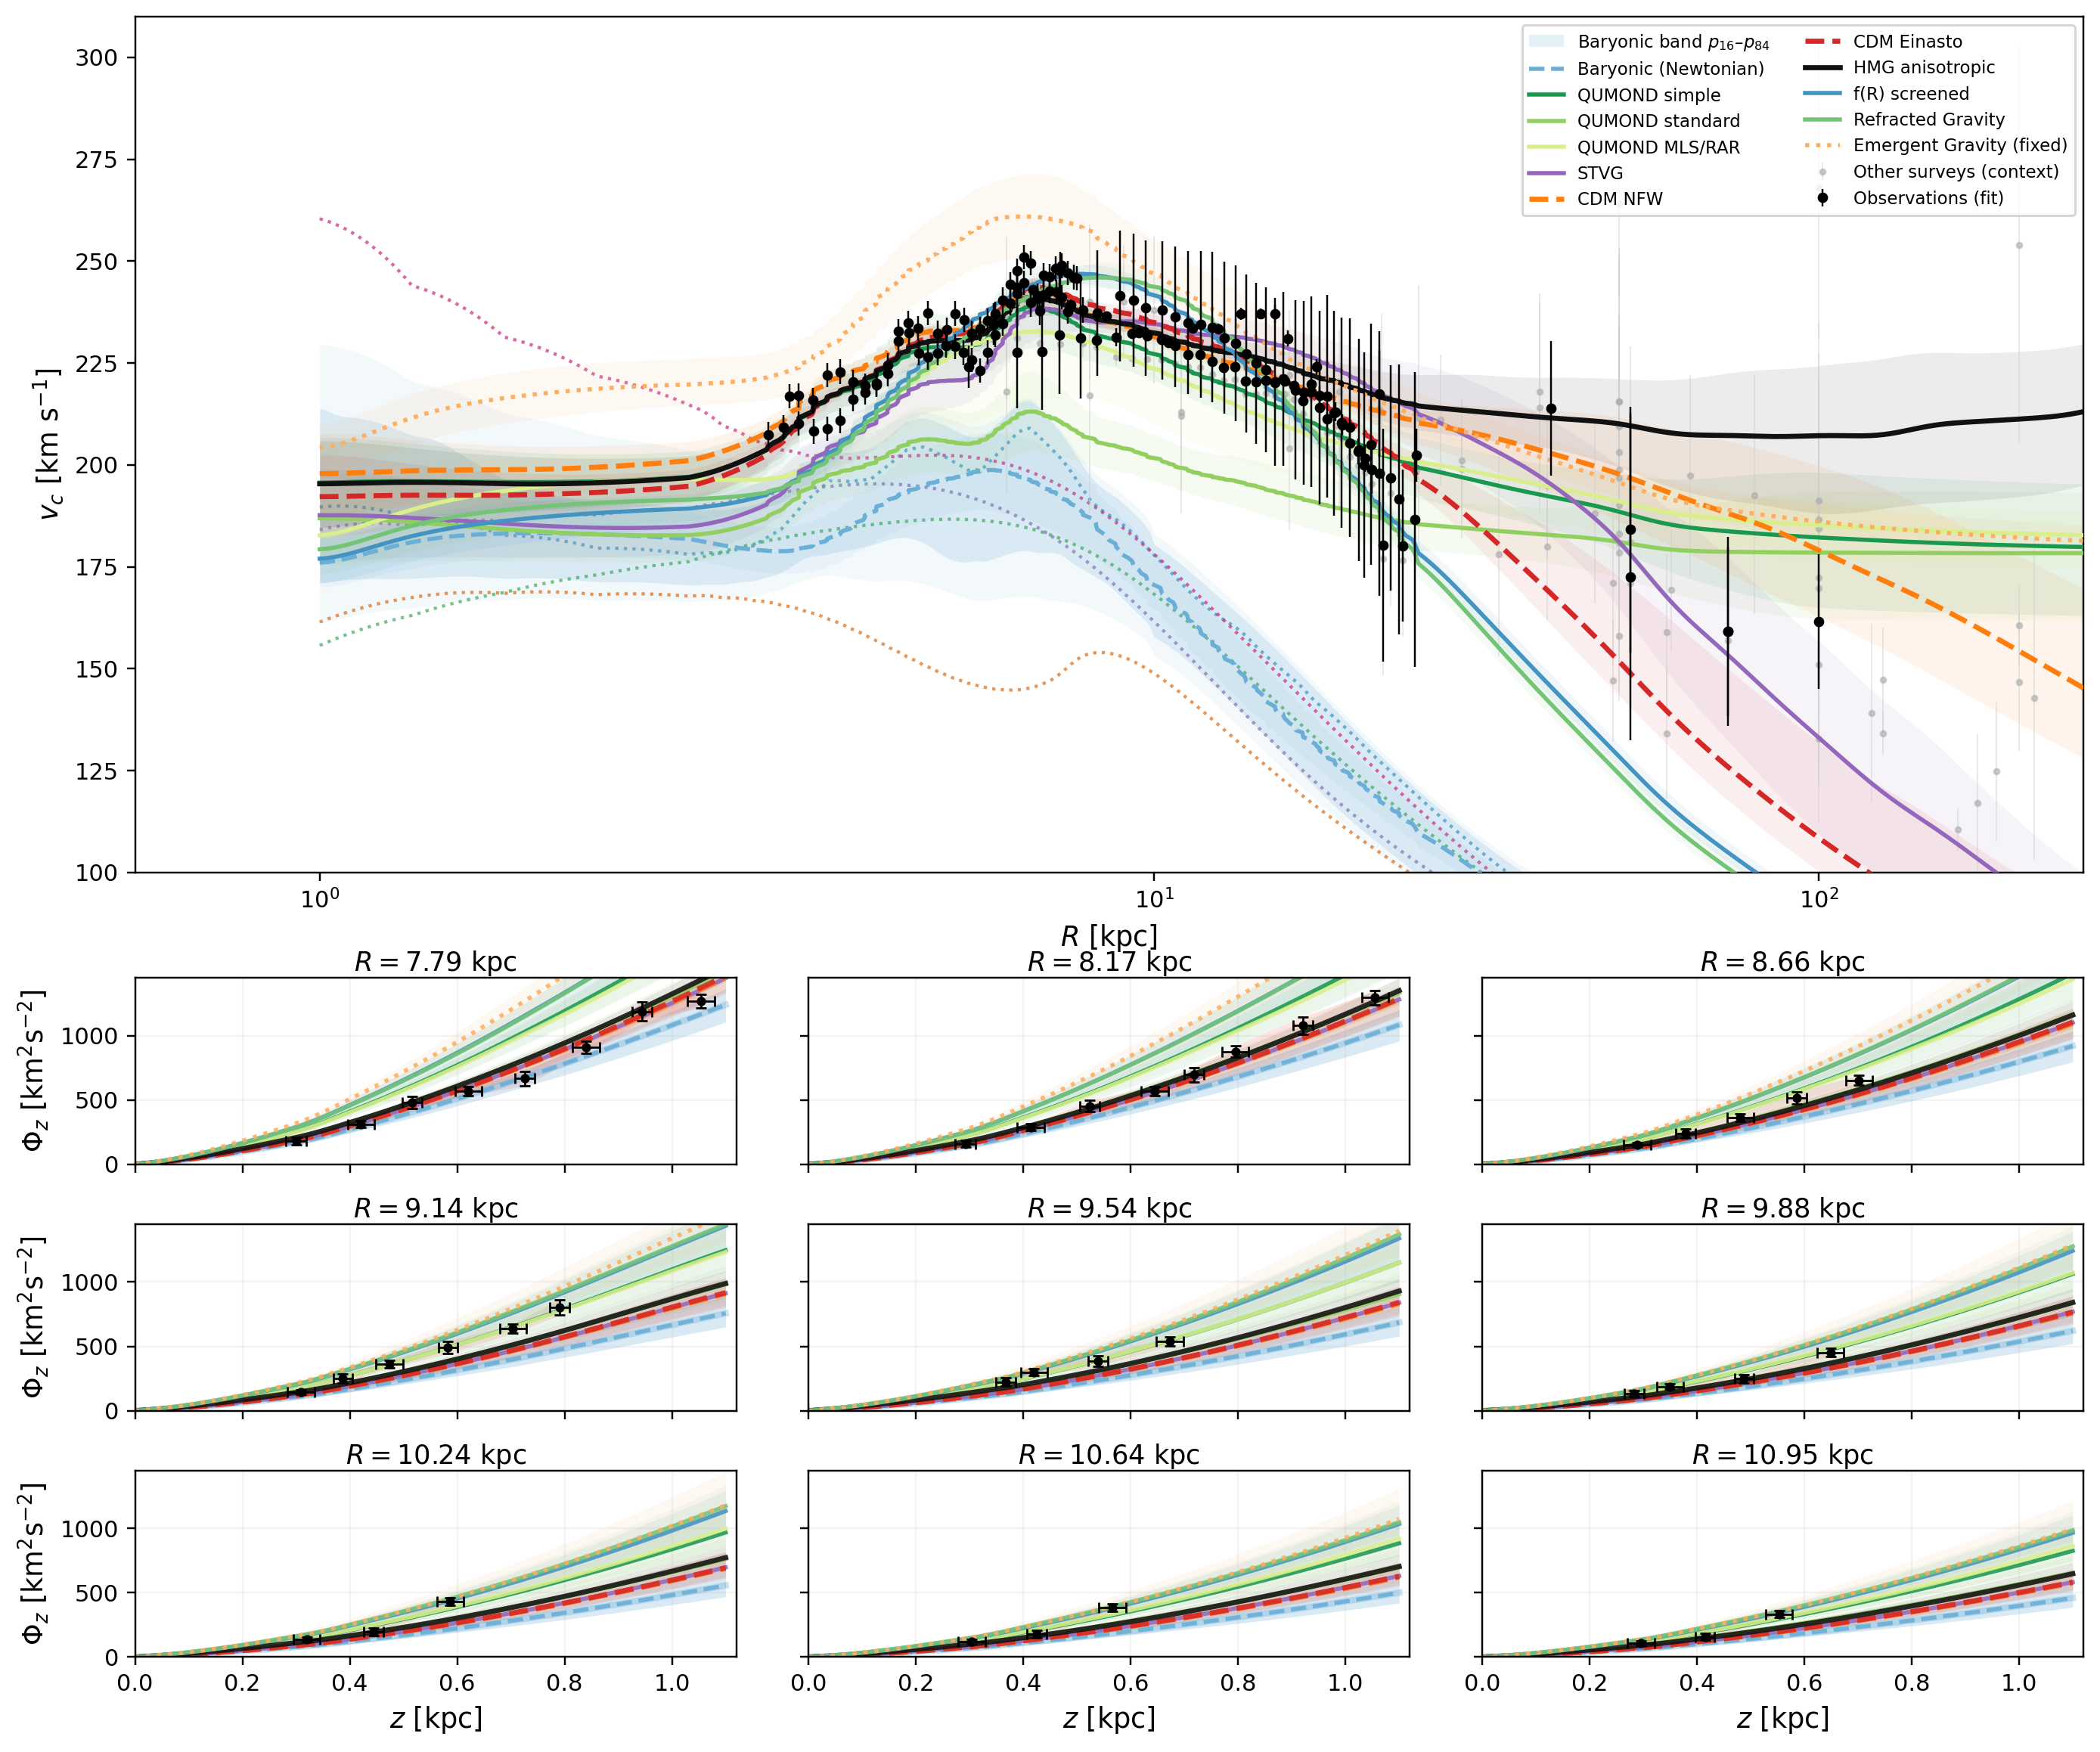
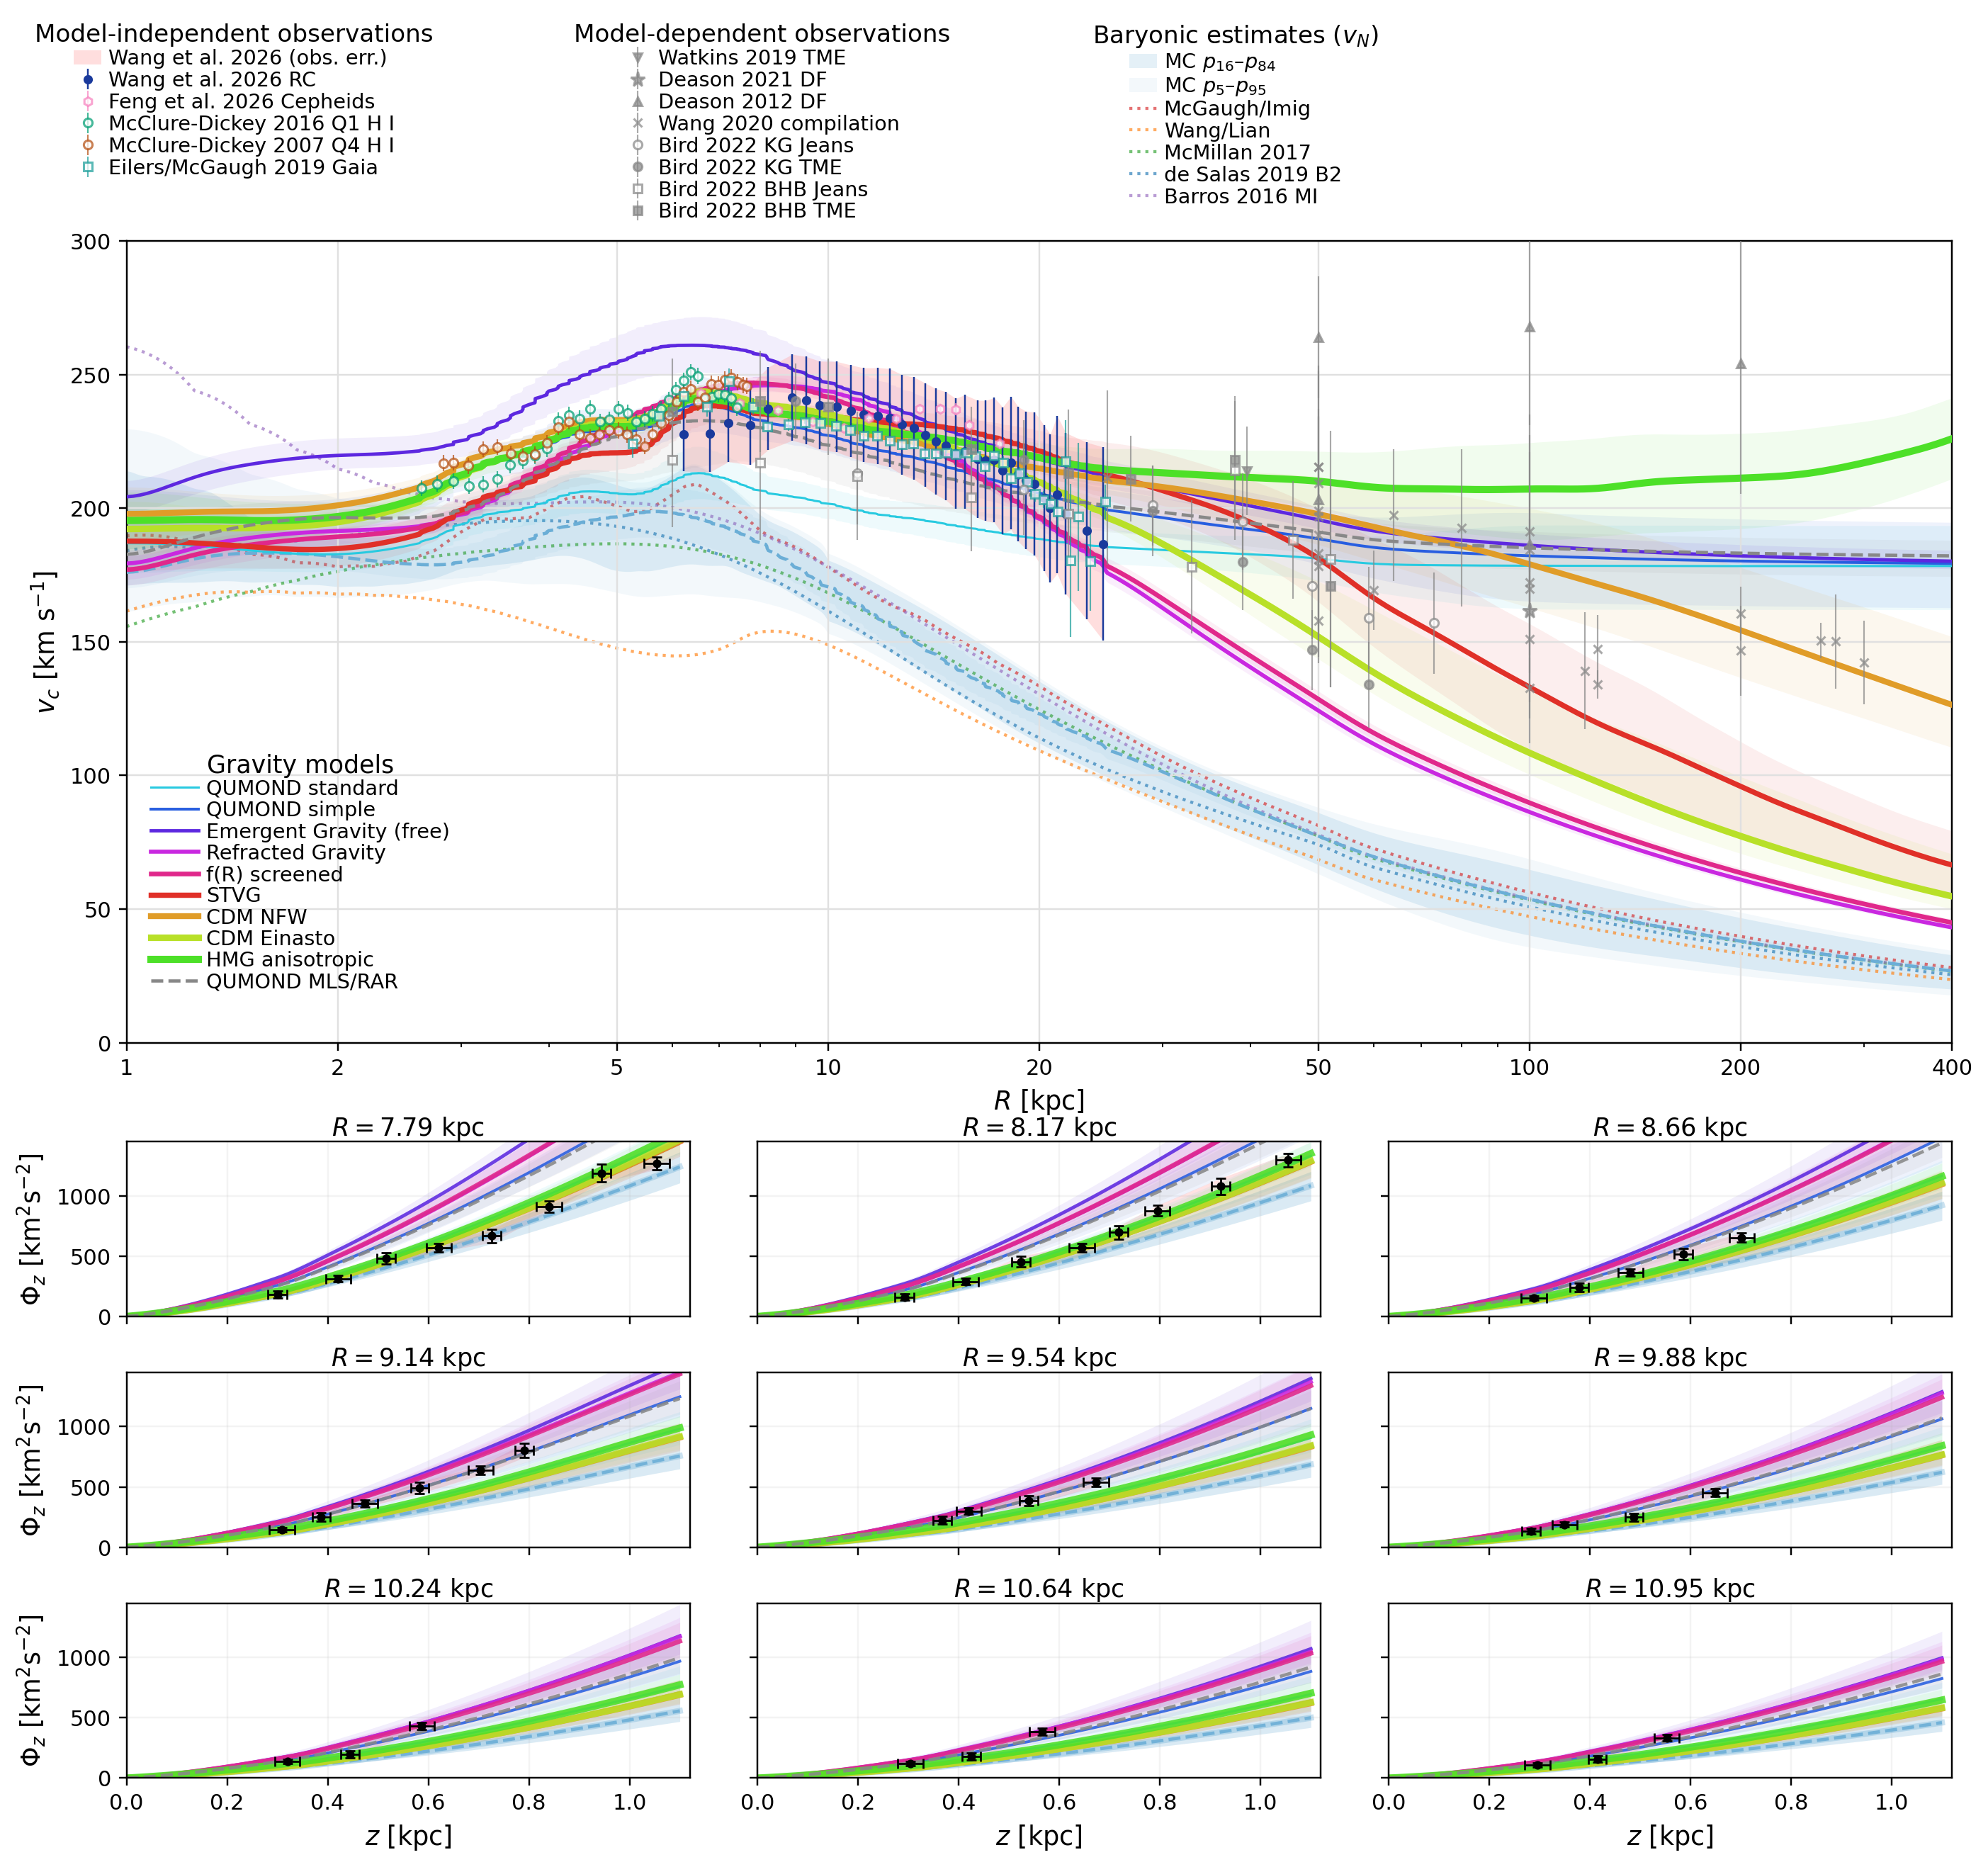
release: harmonize fig2_reproduced styling with fig2_consolidated
- Model colors/widths now match FIG2B rainbow HSV palette (9 canonical models)
- Per-survey observational markers matching canonical group_style
- 4-column legend above panel (indep obs | dep obs | baryonic | gravity models)
- axis: log10 x-scale, xlim 1–400 kpc, ylim 0–300 km/s
- Family dotted lines colors updated to canonical (red/orange/green/blue/purple)

diff --git a/vgrav/figures.py b/vgrav/figures.py
@@ -23,33 +23,42 @@ from typing import Optional
 import matplotlib.pyplot as plt
 import numpy as np
 from matplotlib.colors import LogNorm
+from matplotlib.lines import Line2D
+from matplotlib.patches import Patch
 from scipy.interpolate import PchipInterpolator
 from scipy.ndimage import gaussian_filter1d
 
 # ── Model display config ───────────────────────────────────────────────────────
 # key → (display_name, color, linestyle, linewidth)
 _MODEL_STYLES: dict[str, tuple] = {
-    "baryonic":           ("Baryonic (Newtonian)",   "#6baed6", "--", 1.8),
-    "qumond_simple":      ("QUMOND simple",           "#1a9850", "-",  1.8),
-    "qumond_standard":    ("QUMOND standard",         "#91cf60", "-",  1.8),
-    "qumond_mls":         ("QUMOND MLS/RAR",          "#d9ef8b", "-",  1.8),
-    "stvg":               ("STVG",                    "#9467bd", "-",  1.8),
-    "cdm_nfw":            ("CDM NFW",                 "#ff7f0e", "--", 2.2),
-    "cdm_einasto":        ("CDM Einasto",             "#d62728", "--", 2.2),
-    "hmg_k1":             ("HMG anisotropic",         "#111111", "-",  2.2),
-    "fr_screened":        ("f(R) screened",           "#4393c3", "-",  1.8),
-    "refracted_gravity":  ("Refracted Gravity",       "#74c476", "-",  1.8),
-    "emergent_gravity":   ("Emergent Gravity (fixed)","#fdae61", ":",  1.8),
+    "baryonic":           ("Baryonic (Newtonian)",    "#6baed6", "--", 1.5),
+    "qumond_standard":    ("QUMOND standard",          "#28cae0", "-",  1.000),
+    "qumond_simple":      ("QUMOND simple",            "#285ee0", "-",  1.288),
+    "emergent_gravity":   ("Emergent Gravity (free)",  "#5d28e0", "-",  1.575),
+    "refracted_gravity":  ("Refracted Gravity",        "#c928e0", "-",  1.862),
+    "fr_screened":        ("f(R) screened",            "#e0288b", "-",  2.150),
+    "stvg":               ("STVG",                    "#e03028", "-",  2.438),
+    "cdm_nfw":            ("CDM NFW",                  "#e09c28", "-",  2.725),
+    "cdm_einasto":        ("CDM Einasto",              "#b8e028", "-",  3.012),
+    "hmg_k1":             ("HMG anisotropic",          "#4de028", "-",  3.300),
+    "qumond_mls":         ("QUMOND MLS/RAR",           "#888888", "--", 1.5),
 }
 _BARY_COLOR = "#6baed6"
 
 # Baryonic family colours — matches make_fig2_consolidated.py
 _FAMILY_COLORS: dict[str, str] = {
-    "McGaugh2018_Imig2025": "#2b8cbe",
-    "Wang2026_Lian2022":    "#d95f02",
-    "McMillan2017":         "#31a354",
-    "deSalas2019_B2":       "#756bb1",
-    "Barros2016_MI":        "#c51b7d",
+    "McGaugh2018_Imig2025": "#d62728",
+    "Wang2026_Lian2022":    "#ff7f0e",
+    "McMillan2017":         "#2ca02c",
+    "deSalas2019_B2":       "#1f77b4",
+    "Barros2016_MI":        "#9467bd",
+}
+_FAMILY_LABELS: dict[str, str] = {
+    "McGaugh2018_Imig2025": "McGaugh/Imig",
+    "Wang2026_Lian2022":    "Wang/Lian",
+    "McMillan2017":         "McMillan 2017",
+    "deSalas2019_B2":       "de Salas 2019 B2",
+    "Barros2016_MI":        "Barros 2016 MI",
 }
 
 
@@ -232,6 +241,7 @@ def plot_fig2(
                 ax_top.plot(bband_R, bband_families[_fam],
                             color=_fcol, lw=1.4, linestyle=":", alpha=0.65, zorder=0.08)
 
+    model_handles = []
     for key, dat in available.items():
         label, color, ls, lw = _MODEL_STYLES[key]
         med = gaussian_filter1d(_pct(dat["r_draws"], 50), sigma=4)
@@ -241,37 +251,101 @@ def plot_fig2(
             gaussian_filter1d(_pct(dat["r_draws"], 84), sigma=4),
             color=color, alpha=0.08, lw=0,
         )
-        ax_top.plot(dat["r_coords"], med, color=color, ls=ls, lw=lw,
-                    label=label, zorder=3)
+        h, = ax_top.plot(dat["r_coords"], med, color=color, ls=ls, lw=lw,
+                         label=label, zorder=3)
+        if key != "baryonic":
+            model_handles.append(h)
 
+    independent_handles: list = []
+    dependent_handles: list = []
     if rot_obs:
-        # model-dependent context points (grey, background, not used in chi2)
-        dep = [r for r in rot_obs if r["in_chi2_fit"].strip().lower() != "true"
-               and r.get("vc_kms") is not None and r.get("sigma_vc_kms") is not None]
-        if dep:
-            ax_top.errorbar(
-                [r["R_kpc"] for r in dep], [r["vc_kms"] for r in dep],
-                yerr=[r["sigma_vc_kms"] for r in dep],
-                fmt="o", ms=2.2, color="#aaaaaa", ecolor="#cccccc",
-                lw=0.5, zorder=2, alpha=0.55, label="Other surveys (context)",
+        # Wang+2026 primary RC (model-independent, enters chi2)
+        wang_rows = [r for r in rot_obs
+                     if str(r.get("dataset", "")).startswith("Wang2026_rotation_curve")
+                     and r.get("vc_kms") is not None]
+        if wang_rows:
+            rr = np.array([r["R_kpc"] for r in wang_rows])
+            vv = np.array([r["vc_kms"] for r in wang_rows])
+            ss = np.array([r.get("sigma_vc_kms") or 0.0 for r in wang_rows])
+            order = np.argsort(rr)
+            band = ax_top.fill_between(
+                rr[order], vv[order] - ss[order], vv[order] + ss[order],
+                color="#ff9999", alpha=0.32, lw=0, label="Wang et al. 2026 (obs. err.)",
             )
-        # model-independent fit points (black, foreground, enter chi2)
-        fit = [r for r in rot_obs if r["in_chi2_fit"].strip().lower() == "true"
-               and r.get("vc_kms") is not None and r.get("sigma_vc_kms") is not None]
-        if fit:
-            ax_top.errorbar(
-                [r["R_kpc"] for r in fit], [r["vc_kms"] for r in fit],
-                yerr=[r["sigma_vc_kms"] for r in fit],
-                fmt="o", ms=3.5, color="black", ecolor="black",
-                lw=0.8, zorder=10, label="Observations (fit)",
-            )
+            independent_handles.append(band)
+            h = ax_top.errorbar(rr, vv, yerr=ss, fmt="o", ms=3.3,
+                                color="#1a3a9c", ecolor="#1a3a9c",
+                                lw=0.8, label="Wang et al. 2026 RC", zorder=8)
+            independent_handles.append(h)
 
-    ax_top.set_xscale("symlog", linthresh=2.0)
-    ax_top.set_xlim(0.5, 250.0)
-    ax_top.set_ylim(100, 310)
+        _group_style = [
+            ("Feng2026",                     "h", "#f781bf", "Feng et al. 2026 Cepheids",      "independent", False),
+            ("McClureDickey2016",            "o", "#009e73", "McClure-Dickey 2016 Q1 H I",     "independent", False),
+            ("McClureDickey2007",            "o", "#b54f12", "McClure-Dickey 2007 Q4 H I",     "independent", False),
+            ("Eilers2019_McGaugh2019",       "s", "#1b9e9a", "Eilers/McGaugh 2019 Gaia",       "independent", False),
+            ("Watkins2019",                  "v", "#888888", "Watkins 2019 TME",                "dependent",   True),
+            ("Deason2021",                   "*", "#888888", "Deason 2021 DF",                  "dependent",   True),
+            ("Wang2020_Deason2012",          "^", "#888888", "Deason 2012 DF",                  "dependent",   True),
+            ("Wang2020_",                    "x", "#888888", "Wang 2020 compilation",           "dependent",   False),
+            ("Bird2022_digitized_KG_Jeans",  "o", "#888888", "Bird 2022 KG Jeans",             "dependent",   False),
+            ("Bird2022_digitized_KG_TME",    "o", "#888888", "Bird 2022 KG TME",               "dependent",   True),
+            ("Bird2022_digitized_BHB_Jeans", "s", "#888888", "Bird 2022 BHB Jeans",            "dependent",   False),
+            ("Bird2022_digitized_BHB_TME",   "s", "#888888", "Bird 2022 BHB TME",              "dependent",   True),
+        ]
+        for key, marker, color, label, legend_group, filled in _group_style:
+            sub = [r for r in rot_obs
+                   if key in str(r.get("dataset", "")) and r.get("vc_kms") is not None]
+            if key == "Wang2020_":
+                sub = [r for r in sub if "Deason2012" not in str(r.get("dataset", ""))]
+            if not sub:
+                continue
+            rr = np.array([r["R_kpc"] for r in sub])
+            vv = np.array([r["vc_kms"] for r in sub])
+            ss = np.array([r.get("sigma_vc_kms") or 0.0 for r in sub])
+            h = ax_top.errorbar(
+                rr, vv, yerr=ss if np.any(ss > 0) else None,
+                fmt=marker, ms=4.0 if marker != "*" else 7.0,
+                mfc=color if filled else "white", mec=color, ecolor=color,
+                alpha=0.72, lw=0.7, label=label, zorder=8,
+            )
+            (independent_handles if legend_group == "independent" else dependent_handles).append(h)
+
+    ax_top.set_xscale("log")
+    ax_top.set_xlim(1.0, 400.0)
+    ax_top.set_ylim(0.0, 300.0)
     ax_top.set_xlabel(r"$R$ [kpc]")
     ax_top.set_ylabel(r"$v_c$ [km s$^{-1}$]")
-    ax_top.legend(loc="upper right", ncol=2, fontsize=7.5, frameon=True)
+    ax_top.set_xticks([1, 2, 5, 10, 20, 50, 100, 200, 400])
+    ax_top.set_xticklabels(["1", "2", "5", "10", "20", "50", "100", "200", "400"])
+    ax_top.grid(True, which="major", color="0.88", lw=0.8)
+
+    _leg_kw = dict(frameon=False, fontsize=9.4, title_fontsize=11.2,
+                   handlelength=1.35, handletextpad=0.35, columnspacing=0.72, labelspacing=0.10)
+    if independent_handles:
+        fig.legend(handles=independent_handles, loc="upper left",
+                   bbox_to_anchor=(0.015, 0.995), ncol=1,
+                   title="Model-independent observations", **_leg_kw)
+    if dependent_handles:
+        fig.legend(handles=dependent_handles, loc="upper left",
+                   bbox_to_anchor=(0.285, 0.995), ncol=1,
+                   title="Model-dependent observations", **_leg_kw)
+    _bary_handles = [
+        Patch(facecolor="#6baed6", alpha=0.18, label=r"MC $p_{16}$–$p_{84}$"),
+        Patch(facecolor="#6baed6", alpha=0.075, label=r"MC $p_5$–$p_{95}$"),
+    ] + [
+        Line2D([], [], color=_fc, lw=1.4, linestyle=":", alpha=0.65,
+               label=_FAMILY_LABELS[_fam])
+        for _fam, _fc in _FAMILY_COLORS.items()
+    ]
+    fig.legend(handles=_bary_handles, loc="upper left",
+               bbox_to_anchor=(0.545, 0.995), ncol=1,
+               title=r"Baryonic estimates ($v_N$)", **_leg_kw)
+    if model_handles:
+        fig.legend(handles=model_handles, loc="lower left",
+                   bbox_to_anchor=(0.073, 0.462), ncol=1, frameon=False,
+                   title="Gravity models", fontsize=9.4, title_fontsize=11.4,
+                   handlelength=2.35, handletextpad=0.38, labelspacing=0.08)
+
     fig.add_subplot(gs[1]).axis("off")
 
     # ── Vertical panels ────────────────────────────────────────────────────────